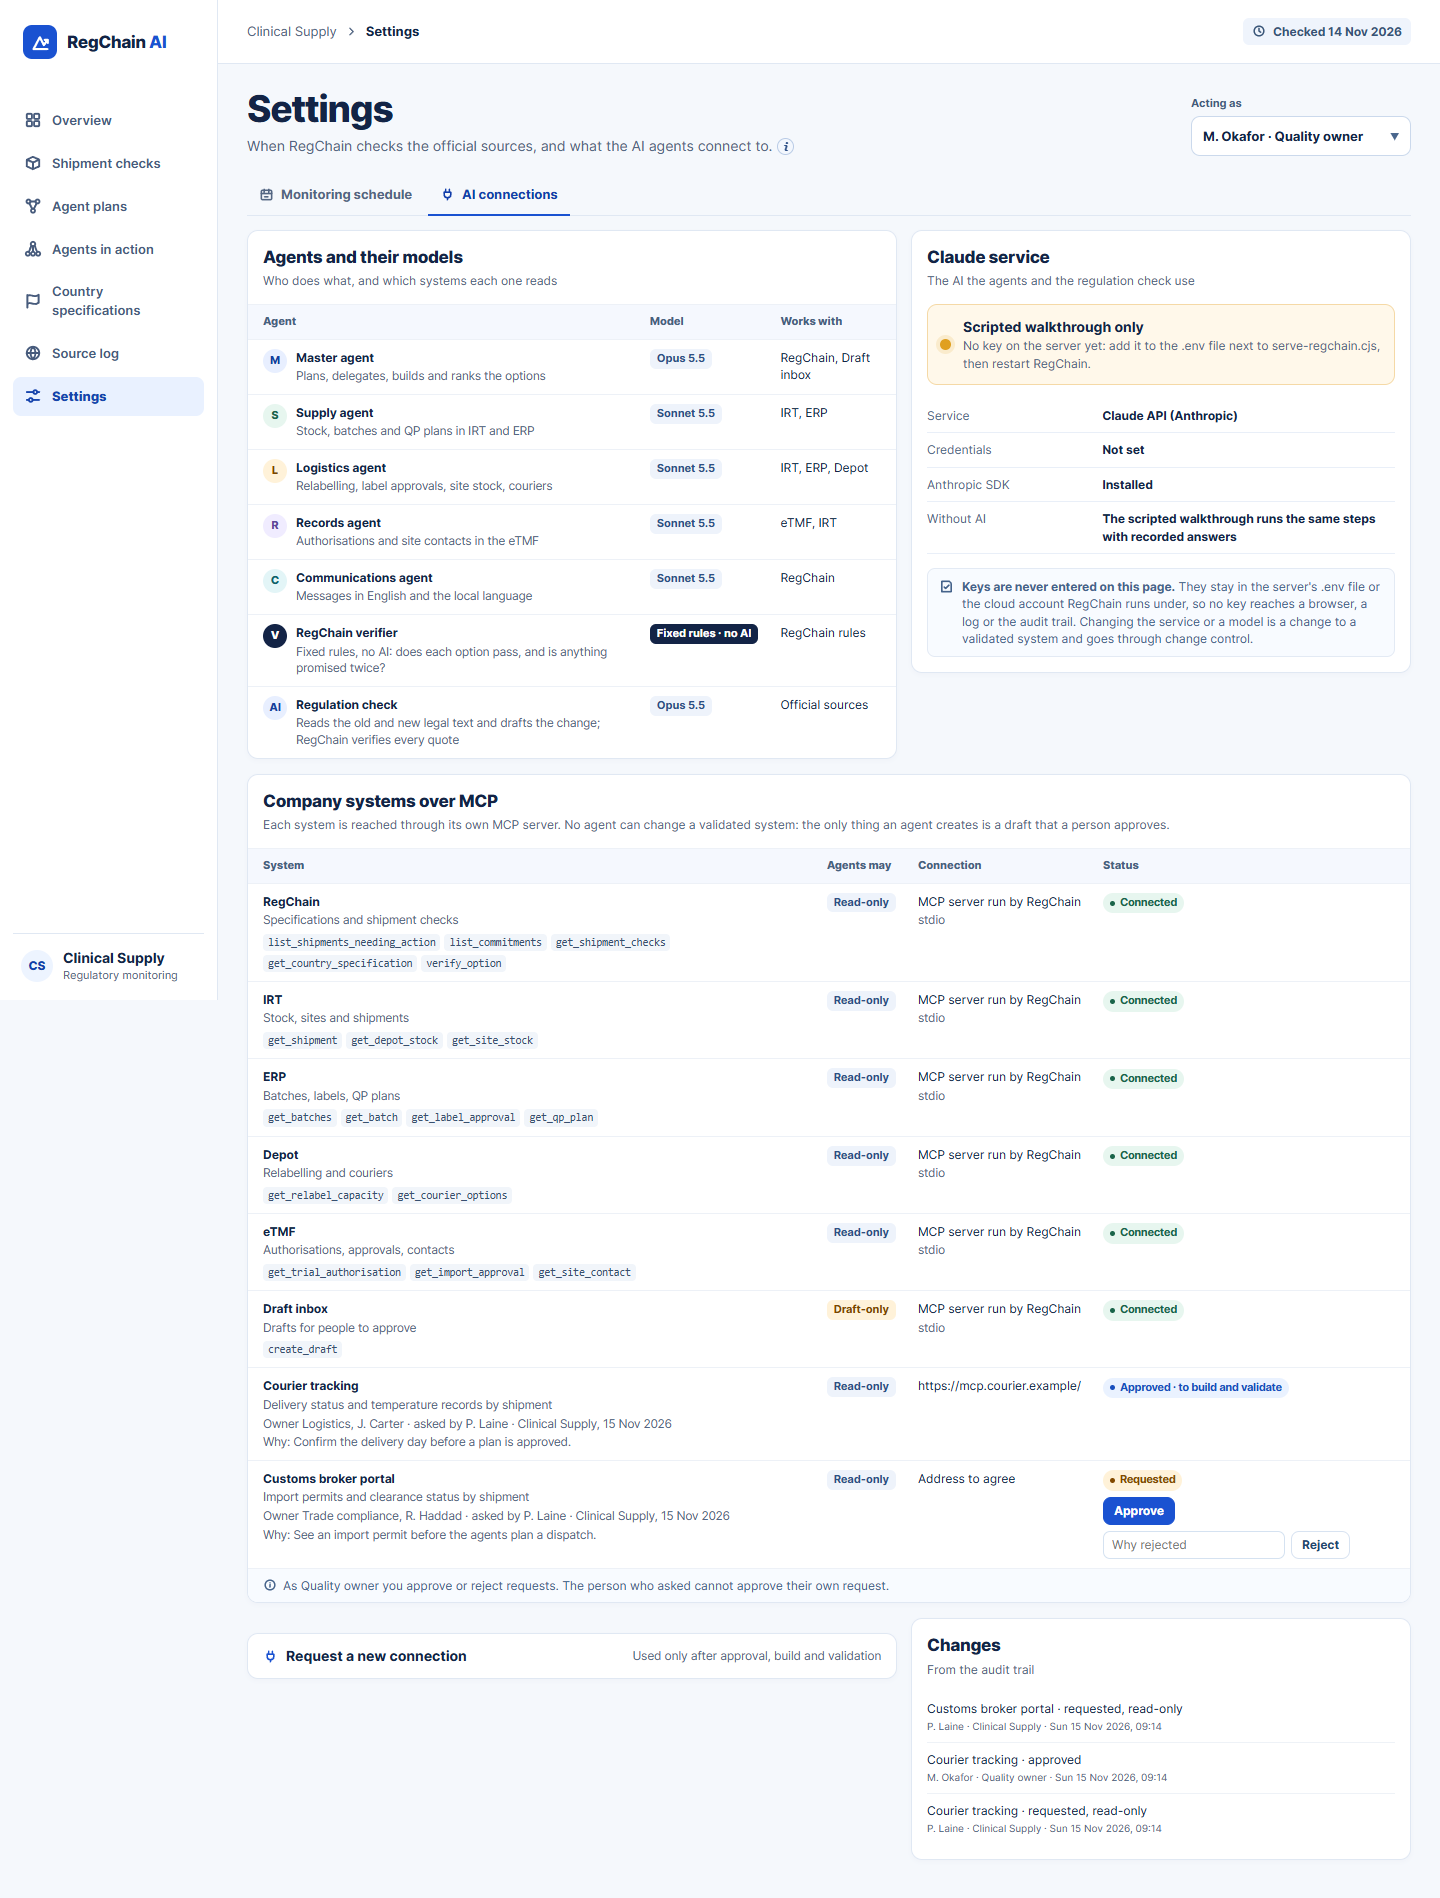
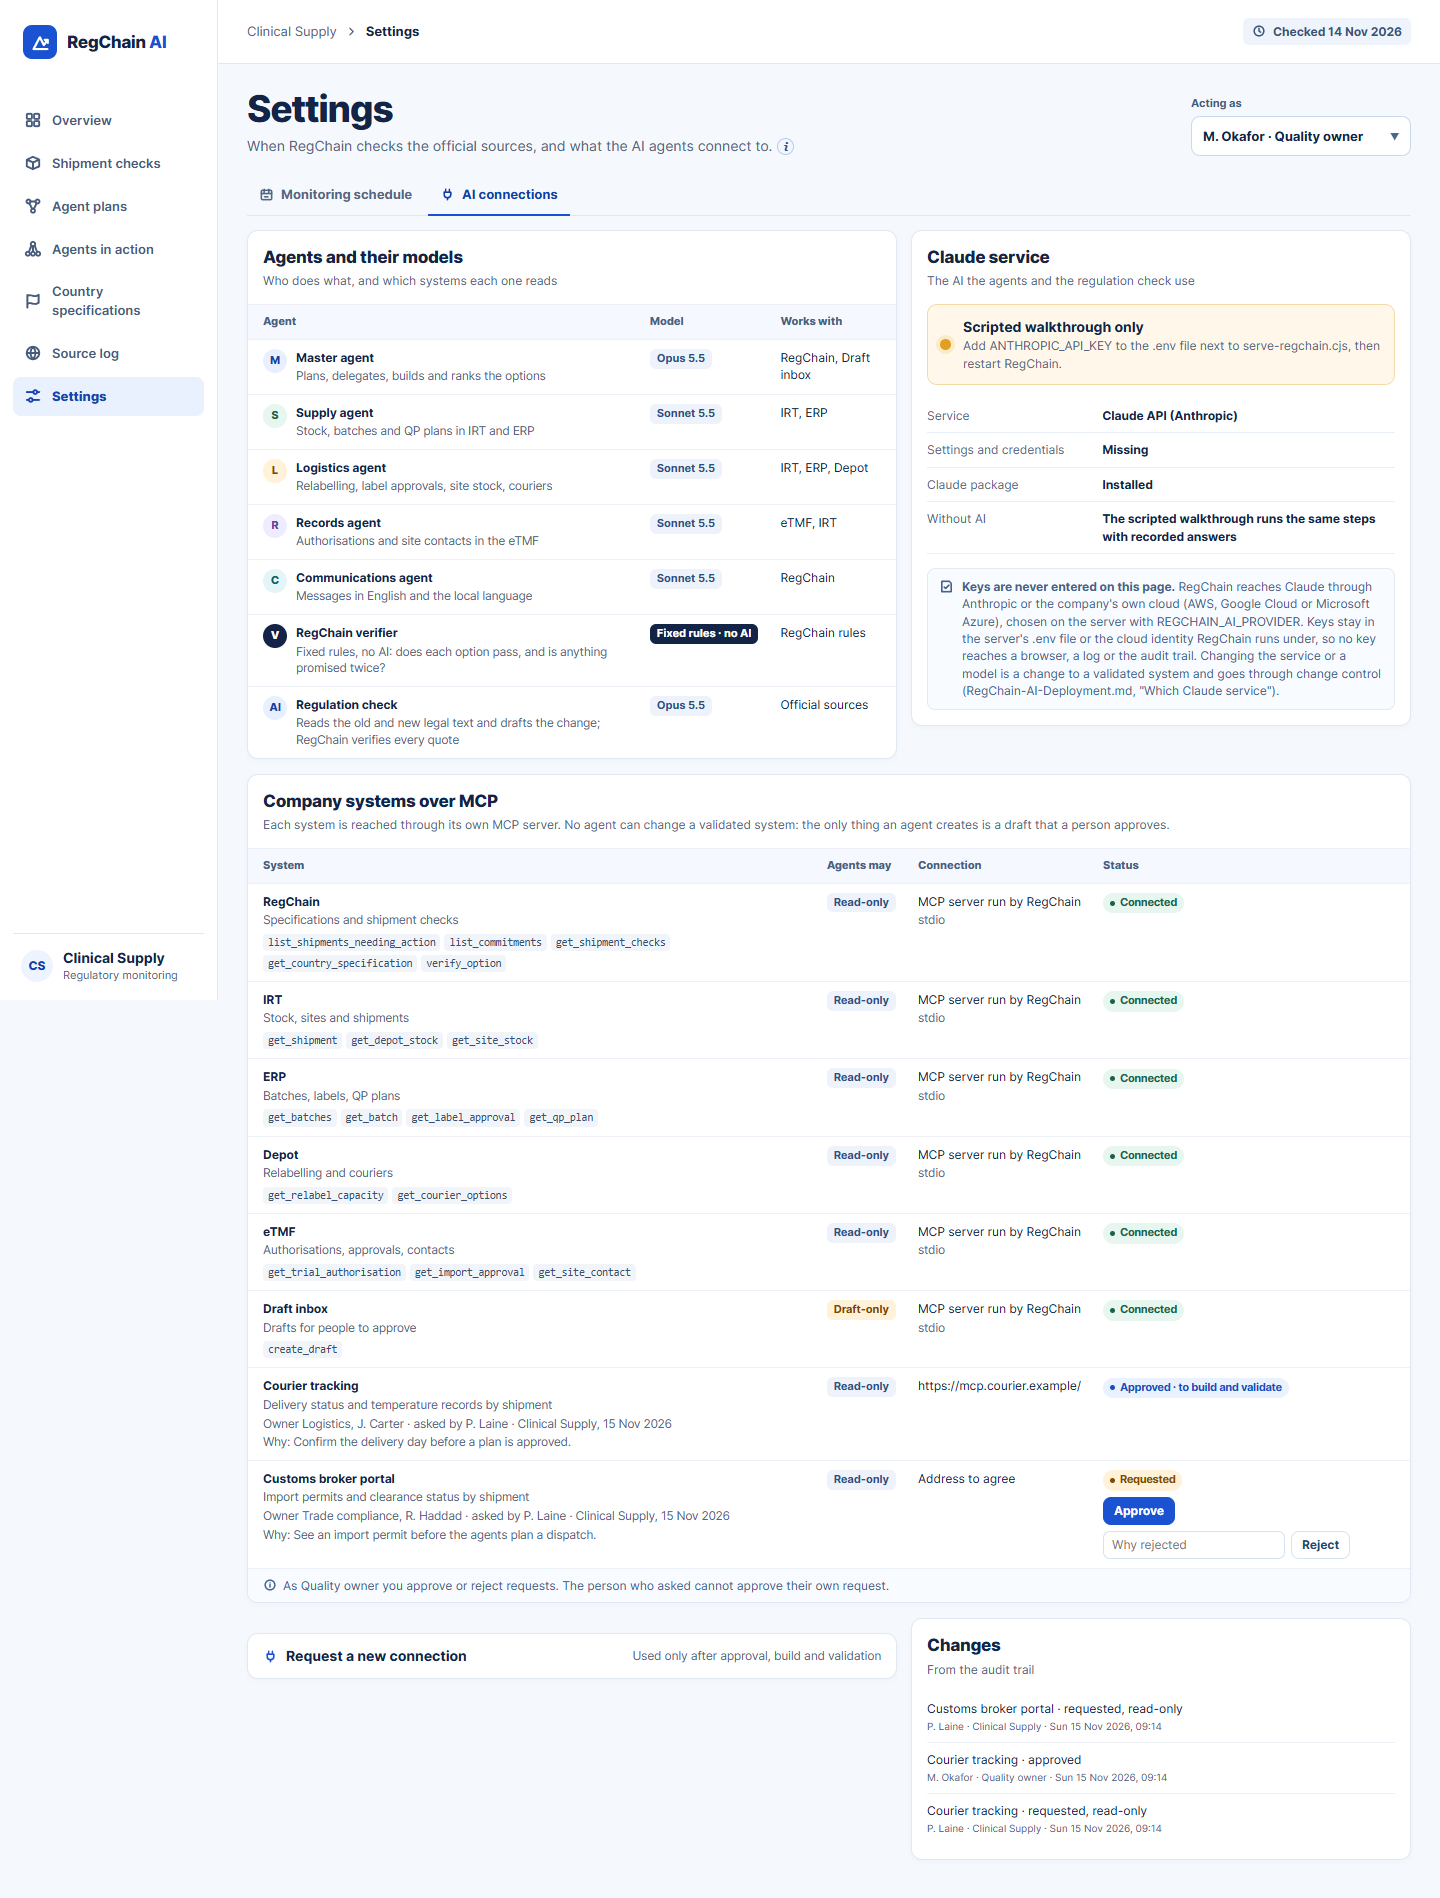
Name the Claude service on the AI connections tab; fit the cards on any width
- The Claude service card uses the service and the one-line setup message
  the status endpoints now return, and says that the company can reach
  Claude through Anthropic or its own AWS, Google Cloud or Azure account
  (REGCHAIN_AI_PROVIDER), with a link to "Which Claude service".
- Agent cards shrink their name and labels when they get narrow (container
  queries), and the master agent's counts go two by two below 330 px, so no
  name or label is cut off from 320 to 1440 px; system tiles never wrap.
- Screenshots recaptured.

diff --git a/RegChain-AI-Dashboard.html b/RegChain-AI-Dashboard.html
@@ -125,7 +125,7 @@ svg{width:18px;height:18px;fill:none;stroke:currentColor;stroke-width:1.7;stroke
 .system-dot{background:#eef2f8;color:#4b6080}.system-dot svg{width:13px;height:13px}
 .team-row{display:grid;grid-template-columns:repeat(5,minmax(0,1fr));gap:9px}.team-row.systems{grid-template-columns:repeat(6,minmax(0,1fr))}.team-row .team-node{padding:9px 10px}
 .team-systems-head{display:flex;align-items:center;font-size:11.5px;color:#4b6080;margin-bottom:-14px;text-transform:uppercase;letter-spacing:.03em}
-.team-system{position:relative;z-index:1;background:#fbfcfe;border:1px solid var(--line);border-radius:9px;padding:7px 9px;display:grid;gap:1px;min-width:0;font-size:12px;transition:box-shadow .2s,border-color .2s}.team-system strong{white-space:nowrap;overflow:hidden;text-overflow:ellipsis}.team-system .team-count.none{color:#8a9bb3;font-weight:600}.team-system small{color:var(--muted);font-size:10.5px;line-height:1.3}.team-system em{font-style:normal;font-size:10px;color:#6b7f9c}.team-system .team-count{font-weight:700;font-size:11px;color:var(--deep);min-height:1em}.team-system.active,.team-system.target{border-color:var(--blue);box-shadow:0 0 0 3px #3b72ef2b;background:#fff}
+.team-system{position:relative;z-index:1;background:#fbfcfe;border:1px solid var(--line);border-radius:9px;padding:7px 9px;display:grid;gap:1px;min-width:0;font-size:12px;transition:box-shadow .2s,border-color .2s}.team-system strong,.team-system .team-count,.team-system em{white-space:nowrap;overflow:hidden;text-overflow:ellipsis}.team-system .team-count.none{color:#8a9bb3;font-weight:600}.team-system small{color:var(--muted);font-size:10.5px;line-height:1.3}.team-system em{font-style:normal;font-size:10px;color:#6b7f9c}.team-system .team-count{font-weight:700;font-size:11px;color:var(--deep);min-height:1em}.team-system.active,.team-system.target{border-color:var(--blue);box-shadow:0 0 0 3px #3b72ef2b;background:#fff}
 .team-summary{border-top:1px solid var(--line);padding:10px 15px;display:grid;gap:6px}.team-facts{display:grid;grid-template-columns:repeat(4,auto);justify-content:start;column-gap:16px;font-size:12px;line-height:20px;color:#4b6080;white-space:nowrap}.team-facts strong{color:var(--ink);font-size:14px;font-variant-numeric:tabular-nums}
 .team-outcome{display:flex;align-items:center;gap:12px}.team-result{flex:1;min-width:0;font-size:12.5px;line-height:1.45;color:#3d5373;margin:0;height:2.9em;display:-webkit-box;-webkit-line-clamp:2;-webkit-box-orient:vertical;overflow:hidden}.team-outcome .btn{flex:none}.team-outcome .btn.waiting{visibility:hidden}
 .team-feed-card{display:flex;flex-direction:column;height:min(640px,calc(100vh - 200px));min-height:420px}.team-filters{display:flex;gap:6px;flex-wrap:wrap;padding:0 15px 10px}.team-filters .chip{border:1px solid var(--line);background:white;border-radius:20px;padding:5px 10px;font-size:11.5px;font-weight:650;color:#4b6080}.team-filters .chip.on{background:var(--ink);border-color:var(--ink);color:white}
@@ -134,6 +134,8 @@ svg{width:18px;height:18px;fill:none;stroke:currentColor;stroke-width:1.7;stroke
 .team-live{margin:0 0 10px}.team-empty{padding:18px}.team-empty h2{margin:6px 0}.team-empty p{color:var(--muted);margin-bottom:12px}.team-rerun{margin-top:12px}
 @media (max-width:1100px){.team-grid{grid-template-columns:1fr}.team-feed-card{max-height:460px;min-height:0}}
 @media (max-width:760px){.team-row{grid-template-columns:repeat(2,minmax(0,1fr))}.team-row.systems{grid-template-columns:repeat(2,minmax(0,1fr))}.team-row .team-node:last-child{grid-column:1/-1}.team-source{flex-basis:100%}.team-source select{flex:1;max-width:none}.tip-pop{position:fixed;left:16px;right:16px;bottom:16px;top:auto;transform:none;max-width:none;width:auto}}
+.team-row .team-node{container:agent/inline-size}.team-master{container:master/inline-size}
+@container agent (max-width:145px){.team-name strong{font-size:13px}.team-stat strong{font-size:14px}.team-stat span{font-size:9px}}@container master (max-width:330px){.team-stats{flex-wrap:wrap}.team-stat{flex:1 1 40%}}
 @media (max-width:640px){.team-facts{grid-template-columns:repeat(2,minmax(0,1fr))}.team-outcome{flex-wrap:wrap}.team-result{flex-basis:100%}}
 @media (prefers-reduced-motion:reduce){.team-node,.team-track span{transition:none}}
 .settings-tabs{display:flex;flex-wrap:wrap;gap:4px;border-bottom:1px solid var(--line);margin:0 0 14px}.settings-role .field select{min-width:220px}.settings-tab{display:inline-flex;align-items:center;gap:7px;border:0;background:none;padding:10px 12px;font-weight:700;font-size:13px;color:#536683;border-bottom:2px solid transparent;margin-bottom:-1px;white-space:nowrap;cursor:pointer}.settings-tab svg{width:15px;height:15px}.settings-tab[aria-selected="true"]{color:var(--deep);border-bottom-color:var(--blue)}.settings-tab:hover{color:var(--deep)}
@@ -1504,12 +1506,12 @@ function aiServiceCard() {
   const [tone,title,text]=!server?["off","Not reachable from this file","Open RegChain at http://127.0.0.1:4173 to see the connection."]:
     !status?["off","Checking","Asking the RegChain server."]:
     ready?["ready","Ready for live runs","The agents and the regulation check call Claude."]:
-    ["partial","Scripted walkthrough only",typeof status.message==="string"&&status.message?status.message:!status.sdk?"The Anthropic SDK is not installed: run npm install in the RegChain folder, then restart RegChain.":"No key on the server yet: add it to the .env file next to serve-regchain.cjs, then restart RegChain."];
+    ["partial","Scripted walkthrough only",typeof status.setup==="string"&&status.setup?status.setup:!status.sdk?"The Claude package for this service is not installed: run npm install in the RegChain folder, then restart RegChain.":"The service is not set up yet: add its settings to the .env file next to serve-regchain.cjs, then restart RegChain."];
   const known=server&&status;
   return '<section class="card"><div class="card-head"><div><h2>Claude service</h2><p>The AI the agents and the regulation check use</p></div></div><div class="settings-body">'+
     '<div class="service-state '+tone+'"><span class="light" aria-hidden="true"></span><span><strong>'+esc(title)+'</strong><small>'+esc(text)+'</small></span></div>'+
-    factlist([["Service",service],["Credentials",!known?"—":status.keySet?"Set on the server":"Not set"],["Anthropic SDK",!known?"—":status.sdk?"Installed":"Not installed"],["Without AI","The scripted walkthrough runs the same steps with recorded answers"]])+
-    '<p class="key-note">'+icon("review")+'<span><strong>Keys are never entered on this page.</strong> They stay in the server\'s .env file or the cloud account RegChain runs under, so no key reaches a browser, a log or the audit trail. Changing the service or a model is a change to a validated system and goes through change control.</span></p>'+
+    factlist([["Service",service],["Settings and credentials",!known?"—":status.keySet?"Set on the server":"Missing"],["Claude package",!known?"—":status.sdk?"Installed":"Not installed"],["Without AI","The scripted walkthrough runs the same steps with recorded answers"]])+
+    '<p class="key-note">'+icon("review")+'<span><strong>Keys are never entered on this page.</strong> RegChain reaches Claude through Anthropic or the company\'s own cloud (AWS, Google Cloud or Microsoft Azure), chosen on the server with REGCHAIN_AI_PROVIDER. Keys stay in the server\'s .env file or the cloud identity RegChain runs under, so no key reaches a browser, a log or the audit trail. Changing the service or a model is a change to a validated system and goes through change control (RegChain-AI-Deployment.md, "Which Claude service").</span></p>'+
   '</div></section>';
 }
 function agentsCard() {

diff --git a/RegChain-AI-Screen-Guide.md b/RegChain-AI-Screen-Guide.md
@@ -128,7 +128,7 @@ The Regulatory SME or the Quality owner changes the schedule; for other roles th
 **AI connections shows:**
 
 - **Agents and their models:** each agent, the Claude model it uses and the systems it reads; the verifier is fixed rules, no AI.
-- **Claude service:** whether live runs are possible (key and SDK on the server) or only the scripted walkthrough. Keys are never entered on the page: they stay in the server's `.env` file or the cloud account RegChain runs under. Changing the service or a model goes through change control.
+- **Claude service:** which service RegChain calls (Anthropic, or the company's own AWS, Google Cloud or Microsoft Azure, set with `REGCHAIN_AI_PROVIDER`; see [Which Claude service](RegChain-AI-Deployment.md#which-claude-service)), and whether live runs are possible or only the scripted walkthrough, with the one thing still missing. Keys are never entered on the page: they stay in the server's `.env` file or the cloud identity RegChain runs under. Changing the service or a model goes through change control.
 - **Company systems over MCP:** each system, what the agents may do there (read-only, or draft-only for the Draft inbox), its tools and whether RegChain reached it.
 - **Request a new connection:** anyone can ask for a new system (name, what the agents would read, MCP address if known, read-only or draft-only, business owner, why). The request changes nothing. The Quality owner approves or rejects it with a reason; the person who asked cannot approve their own request. An approved connection still has to be built and validated before any agent uses it.
 
